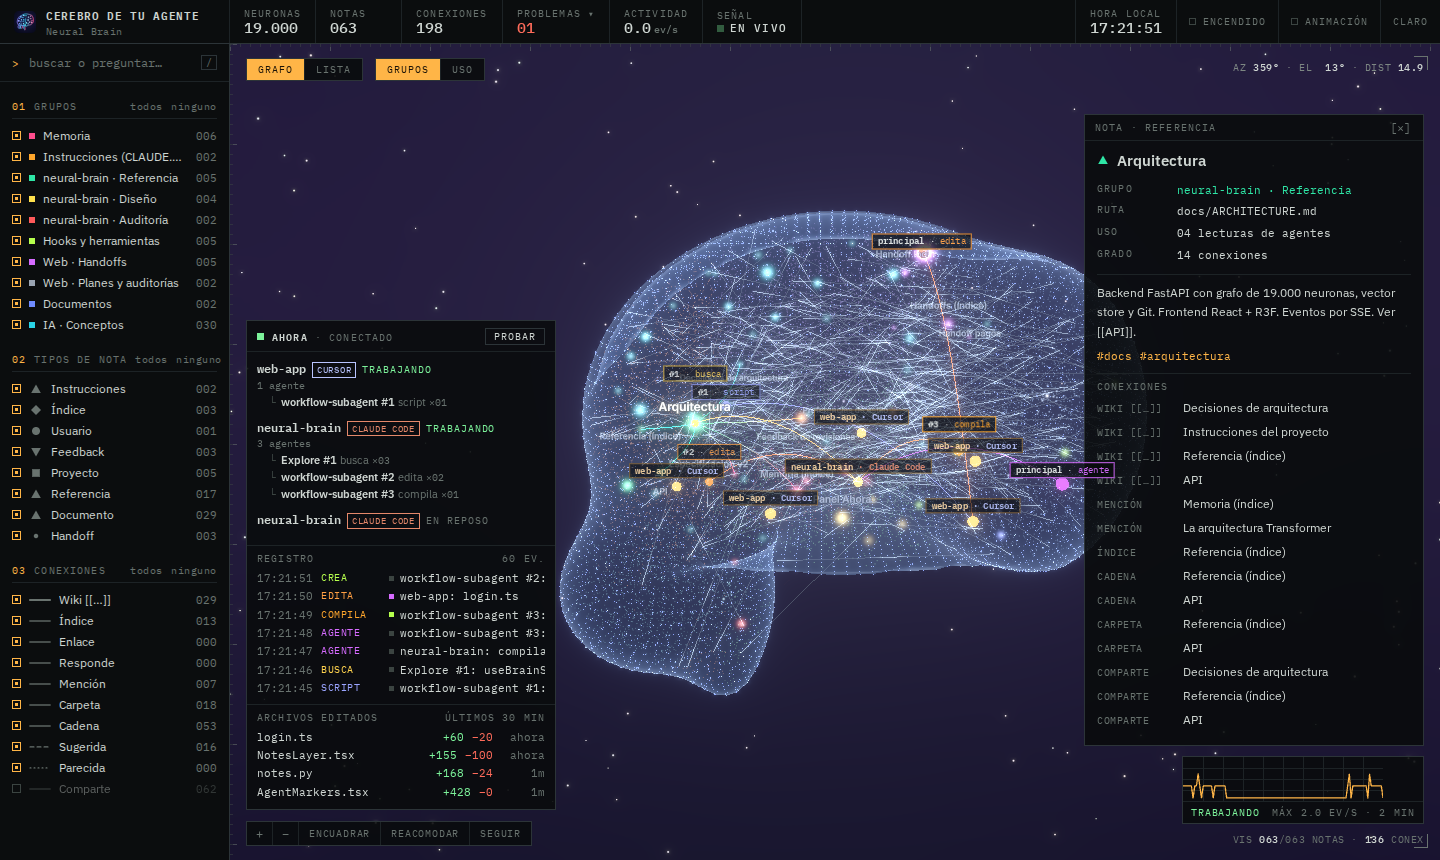
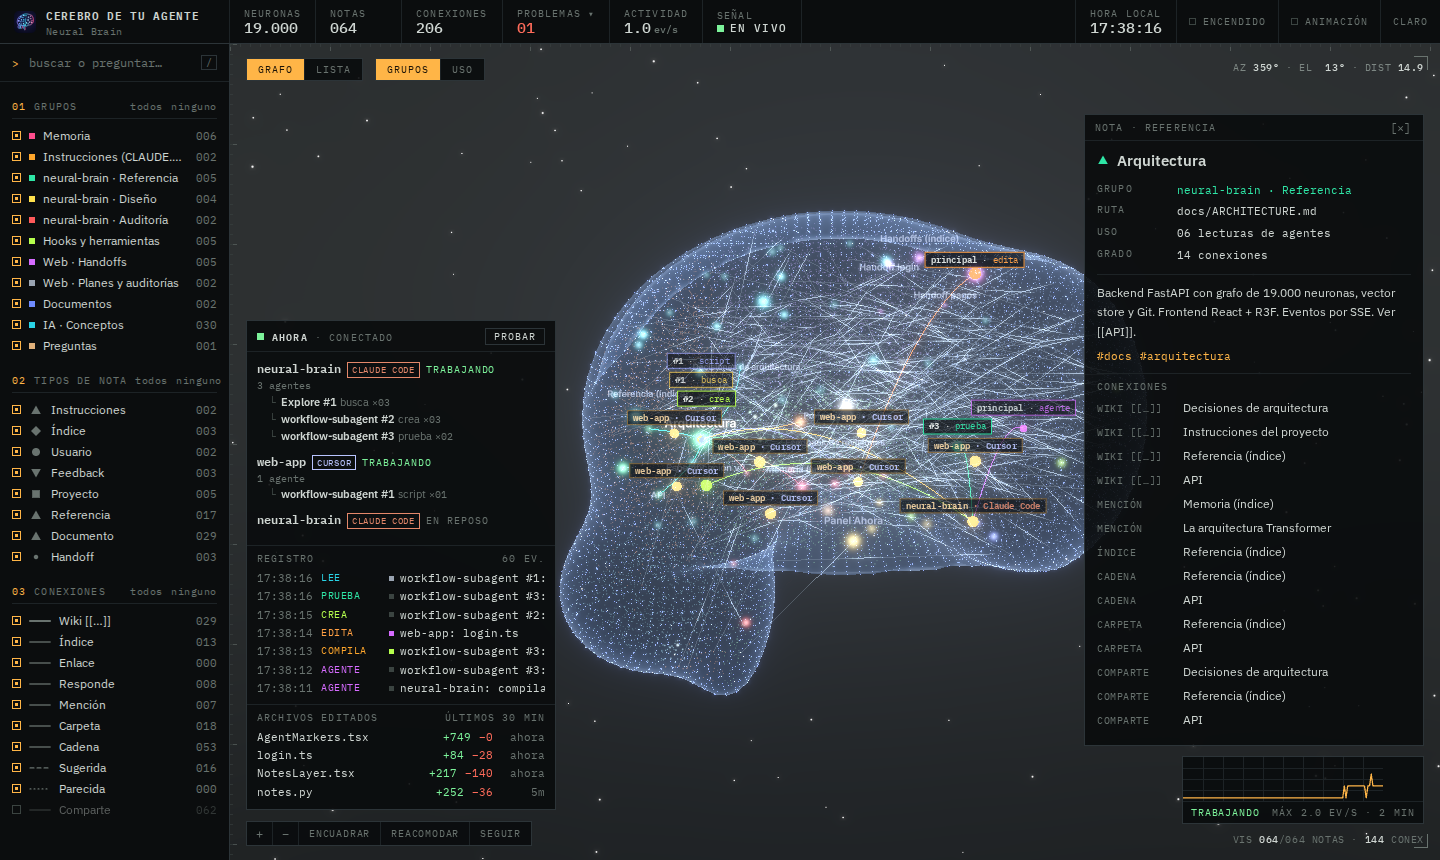
feat(ui): neutral graphite scene background
The violet sky and tinted stars become a neutral graphite gradient and grey stars, so the amber accent and the note colours are the only colour around the brain. README screenshots refreshed.

Claude-Session: https://claude.ai/code/session_01FtnkjFZqhvsLejwne1Sczp

diff --git a/frontend/src/components/BrainCanvas.tsx b/frontend/src/components/BrainCanvas.tsx
@@ -112,16 +112,16 @@ const skyFragment = /* glsl */ `
   varying vec3 vDir;
   void main() {
     float h = vDir.y * 0.5 + 0.5;
-    vec3 top = vec3(0.004, 0.006, 0.028);
-    vec3 mid = vec3(0.016, 0.009, 0.045);
-    vec3 low = vec3(0.002, 0.002, 0.012);
+    vec3 top = vec3(0.010, 0.012, 0.012);
+    vec3 mid = vec3(0.024, 0.027, 0.027);
+    vec3 low = vec3(0.004, 0.005, 0.005);
     vec3 c = mix(low, mid, smoothstep(0.0, 0.5, h));
     c = mix(c, top, smoothstep(0.5, 1.0, h));
     gl_FragColor = vec4(c, 1.0);
   }
 `;
 
-/** Deep blue-violet gradient behind the stars. */
+/** Neutral graphite gradient behind the stars (matches the instrument UI). */
 function Sky() {
   const material = useMemo(() => new THREE.ShaderMaterial({
     vertexShader: skyVertex, fragmentShader: skyFragment, side: THREE.BackSide, depthWrite: false,
@@ -147,9 +147,9 @@ export function BrainCanvas() {
       onPointerMissed={() => useNotesStore.getState().select(null)}
       dpr={[1, 2]}
     >
-      <color attach="background" args={["#060817"]} />
+      <color attach="background" args={["#07090a"]} />
       <Sky />
-      <Stars radius={70} depth={45} count={3500} factor={2.6} saturation={0.5} fade speed={0.4} />
+      <Stars radius={70} depth={45} count={3500} factor={2.6} saturation={0} fade speed={0.4} />
       <ambientLight intensity={0.7} />
       <Suspense fallback={null}>
         <NeuronDust />

diff --git a/frontend/src/index.css b/frontend/src/index.css
@@ -61,7 +61,7 @@ button:focus-visible, input:focus-visible { outline: 1px solid var(--accent); ou
 
 .app { display: flex; flex-direction: column; width: 100%; height: 100%; background: var(--bg); color: var(--text); }
 .body { flex: 1; display: flex; min-height: 0; }
-.stage { position: relative; flex: 1; min-width: 0; background: #060817; }
+.stage { position: relative; flex: 1; min-width: 0; background: #07090a; }
 .stage canvas { display: block; }
 
 /* small uppercase mono captions used everywhere */
